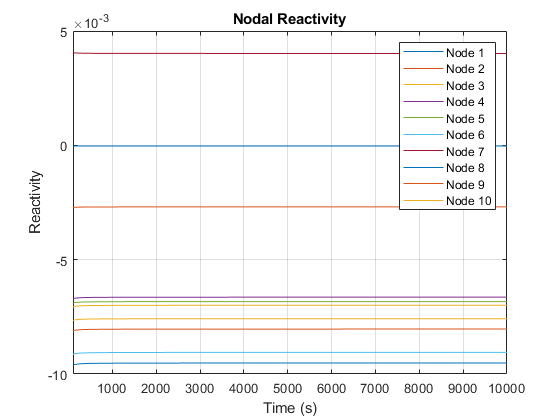
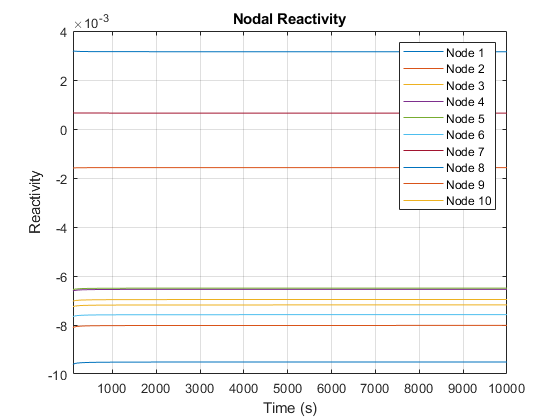
Update steady state values and control rod set point

diff --git a/src/main/matlab/NeutronKineticsPlotting.m b/src/main/matlab/NeutronKineticsPlotting.m
@@ -57,46 +57,46 @@ global time_plot
 
 starting_index = 1;
 for i=1:length(diff_plot_titles)
-    % hard coded y-limits for producing steady state plots
+%     hard coded y-limits for producing steady state plots
 %     if i == 14 + 1
 %         xlim([100 inf]) 
 %         ylim([250 255])
 %     elseif i == 2 + 1
 %         xlim([100 inf]) 
-%         ylim([1.1e-3 1.25e-3])
+%         ylim([6.9e-4 7e-4])
 %     elseif i == 4 + 1
 %         xlim([100 inf]) 
-%         ylim([5.85e-3 6e-3])
+%         ylim([3.3e-3 3.4e-3])
 %     elseif i == 3 + 1
 %         xlim([100 inf]) 
-%         ylim([2.25e-3 3e-3])
+%         ylim([1.2e-3 1.3e-3])
 %     elseif i == 15 + 1 
 %         xlim([100 inf]) 
 %         ylim([250 255])
 %     elseif i == 17 + 1 
 %         xlim([100 inf]) 
-%         ylim([760 770])
+%         ylim([740 770])
 %     elseif i == 5 + 1 
 %         xlim([100 inf]) 
-%         ylim([0.018 0.02])
+%         ylim([0.01 0.02])
 %     elseif i == 6 + 1 
 %         xlim([100 inf]) 
-%         ylim([0.072 0.08])  
+%         ylim([0.04 0.05])  
 %     elseif i == 7 + 1 
 %         xlim([100 inf]) 
-%         ylim([0.3 0.4])
+%         ylim([0.18 0.19])
 %     elseif i == 8 + 1 
 %         xlim([100 inf]) 
-%         ylim([1.8 1.9])
+%         ylim([0.8 0.9])
 %     elseif i == 9 + 1 
 %         xlim([100 inf]) 
-%         ylim([1.5 1.55])
+%         ylim([1.8 1.9])
 %     elseif i == 10 + 1 
 %         xlim([100 inf]) 
-%         ylim([0.85 0.9])
+%         ylim([1.2 1.3])
 %     elseif i == 11 + 1 
 %         xlim([100 inf]) 
-%         ylim([0.4 0.5])
+%         ylim([0.6 0.7])
 %     end
 %     
     

diff --git a/src/main/matlab/NeutronKinetics.m b/src/main/matlab/NeutronKinetics.m
@@ -190,8 +190,8 @@ classdef NeutronKinetics
            obj.k = 0; %leakage ratio 
 
            % For the control rod control system
-           obj.T_outlet_header_ss = x0(obj.N*7+2*obj.N+4); %Toh 
-           obj.T_outlet_header_set_point = obj.T_outlet_header_ss; 
+           obj.T_outlet_header_ss = obj.Tout; %Toh 
+           obj.T_outlet_header_set_point = obj.Tout; 
            obj.T_outlet_header_sp_step = 25; % step the set point by 25 degrees
            
            % for no step change in set point, comment out the below line
